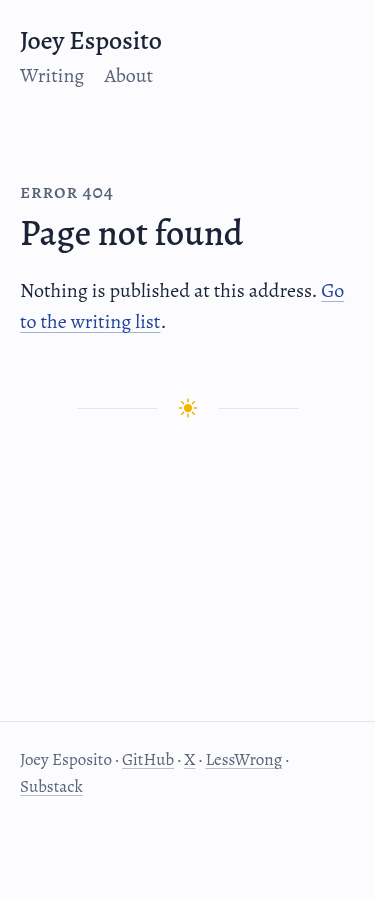
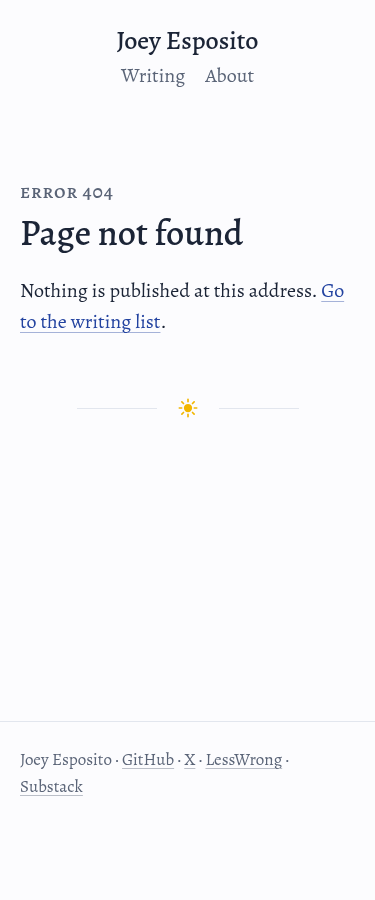
Centre the header's name and pages on narrow screens

Changed region(s): [[0.0587, 0.0311, 0.704, 0.0933]]

diff --git a/src/styles/global.css b/src/styles/global.css
@@ -72,8 +72,9 @@ sup { line-height: 0; }
 
 .site-header, .page, .site-footer { width: 100%; max-width: calc(var(--measure) + 2rem); margin-inline: auto; padding-inline: 1rem; }
 
-/* The same header on every page: the name, with the pages beneath it. */
-.site-header { display: flex; flex-direction: column; align-items: flex-start; gap: 0.2rem; padding-block: 1.25rem 0.5rem; }
+/* The same header on every page: the name, with the pages beneath it, centred on narrow
+   screens (wide screens set it right-aligned in the left margin). */
+.site-header { display: flex; flex-direction: column; align-items: center; gap: 0.2rem; padding-block: 1.25rem 0.5rem; text-align: center; }
 .site-name { font-size: 1.3rem; font-weight: 500; line-height: 1.2; color: var(--fg); text-decoration: none; }
 .site-nav { display: flex; flex-wrap: wrap; align-items: baseline; gap: 0.15rem 1rem; }
 .site-nav a { color: var(--muted); text-decoration: none; }

diff --git a/DESIGN.md b/DESIGN.md
@@ -62,7 +62,8 @@ Meta 0.85–0.92rem. Inline code 0.8em; code blocks 0.72rem (14.4px).
 - The header is the same on every page: the name, with the nav (Writing, About) beneath it.
   There is no avatar.
 - Below 80rem (1280px): one column, `--measure` wide plus 1rem gutters. The header is at
-  the top, left-aligned. The list's controls sit under the "Writing" heading
+  the top, the name and nav centred on the text column (Joey compared this with the nav
+  beside the name, flush right). The list's controls sit under the "Writing" heading
   with no rules: each group is a small-caps label over a row running the full width of the
   screen. Options are plain text with the sunflower dot beside the chosen one, as in the wide
   margin, each in an invisible 44px touch target that presses in slightly when tapped. Each
